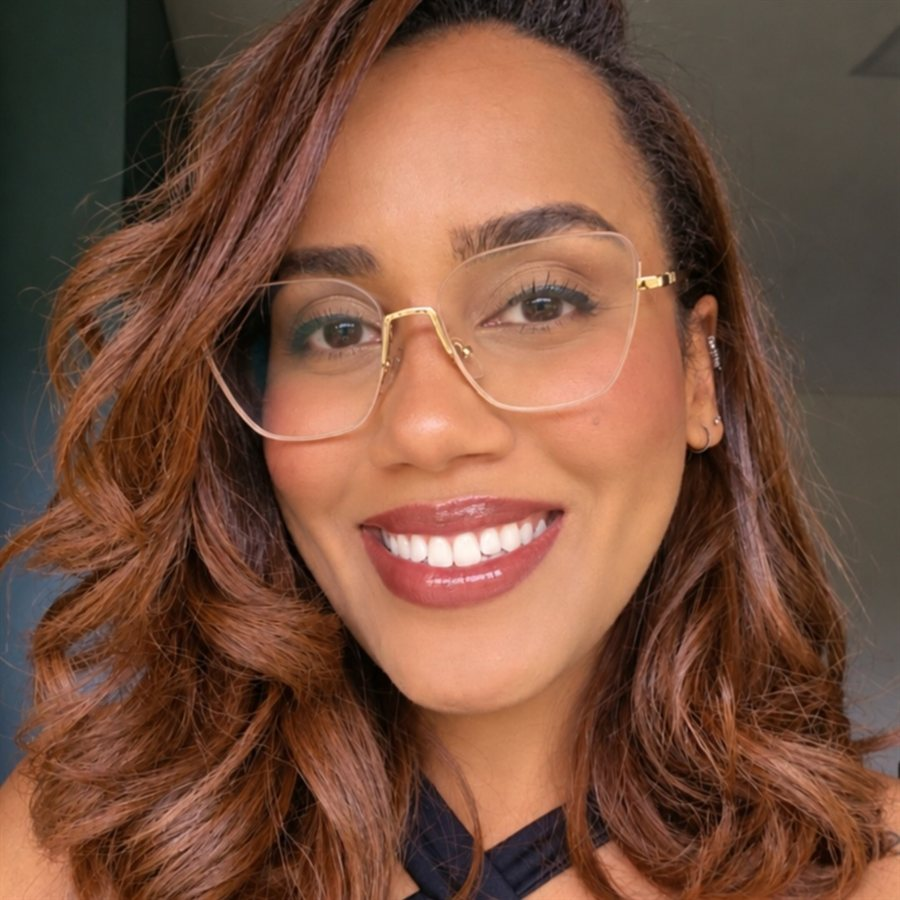
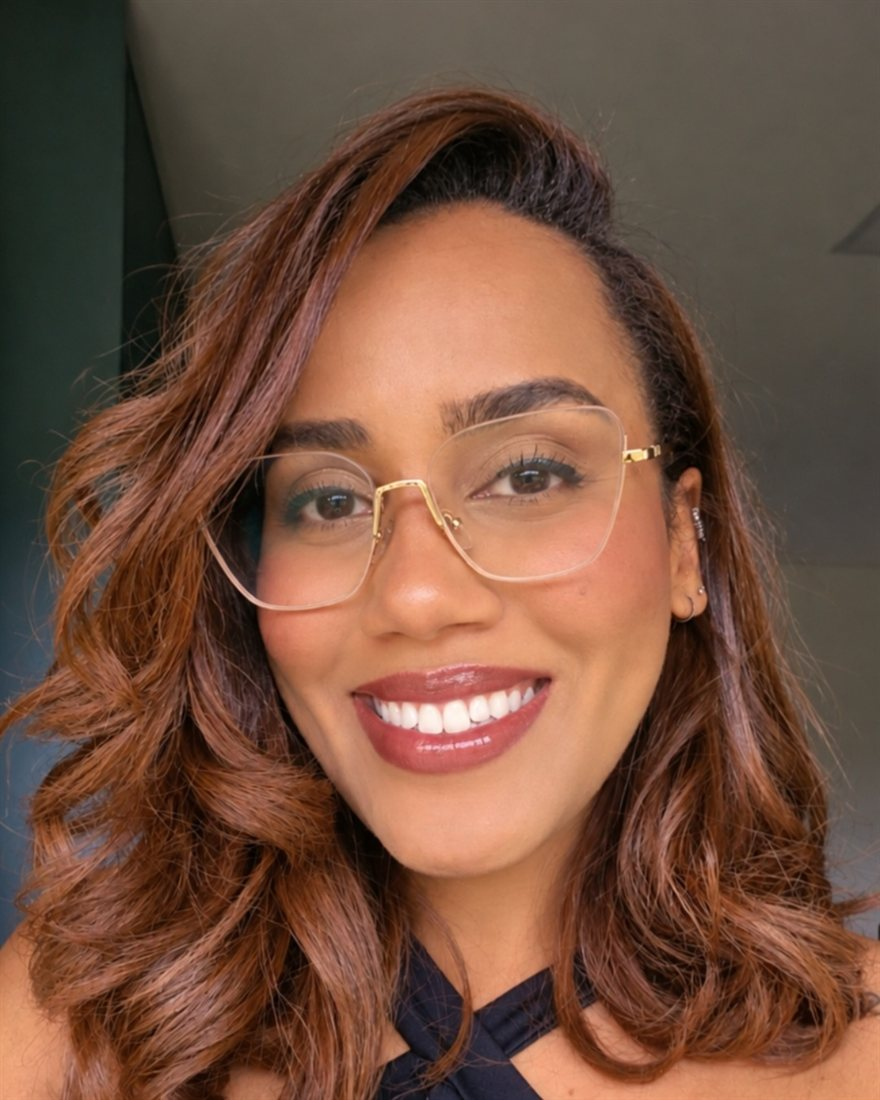
Hero: foto em retrato com fundo decorativo e correcao das margens laterais
A foto volta a mostrar o cabelo inteiro, em formato retrato com topo em arco
sobre um fundo em gradiente. Corrige tambem o padding lateral que era zerado
pelo atalho de padding no hero, na faixa de transicao e no corpo dos cases.

diff --git a/index.html b/index.html
@@ -10,7 +10,7 @@
 <link href="https://fonts.googleapis.com/css2?family=Manrope:wght@400;500;600;700;800&family=JetBrains+Mono:wght@400;700&display=swap" rel="stylesheet">
 <link rel="stylesheet" href="assets/css/style.css">
 <style>
-  .hero { padding: 72px 0 64px; display: grid; grid-template-columns: 1.4fr 0.6fr; gap: 56px; align-items: center; }
+  .hero { padding-block: 72px 64px; display: grid; grid-template-columns: 1.4fr 0.6fr; gap: 56px; align-items: center; }
   .hero h1 { font-size: clamp(40px, 6vw, 64px); letter-spacing: -0.03em; line-height: 1.05; }
   .hero .sub { margin-top: 18px; font-size: clamp(18px, 2.2vw, 22px); font-weight: 600; color: var(--ink); max-width: 30ch; line-height: 1.35; }
   .hero .desc { margin-top: 18px; font-size: 17px; color: var(--ink-2); max-width: 56ch; }
@@ -19,10 +19,26 @@
   .hero-meta span { display: inline-flex; align-items: center; gap: 7px; }
   .hero-meta svg { width: 15px; height: 15px; }
 
-  .portrait { justify-self: end; width: 100%; max-width: 340px; }
-  .portrait img { width: 100%; height: auto; aspect-ratio: 1 / 1; object-fit: cover; border-radius: var(--radius); box-shadow: var(--shadow); }
+  .portrait { position: relative; justify-self: end; width: 100%; max-width: 330px; }
+  .portrait::before {
+    content: ""; position: absolute; z-index: 0;
+    left: -15%; right: -11%; top: -7%; bottom: -5%;
+    background: linear-gradient(145deg, rgba(210, 104, 61, 0.26), rgba(45, 91, 227, 0.22));
+    border-radius: 56% 44% 50% 50% / 44% 50% 50% 56%;
+  }
+  .portrait::after {
+    content: ""; position: absolute; z-index: 0;
+    left: 10%; right: -11%; top: 15%; bottom: -12%;
+    border: 1.5px solid rgba(45, 91, 227, 0.20);
+    border-radius: 50%;
+  }
+  .portrait img {
+    position: relative; z-index: 1;
+    width: 100%; height: auto; aspect-ratio: 4 / 5; object-fit: cover;
+    border-radius: 165px 165px 22px 22px; box-shadow: 0 18px 44px rgba(17, 24, 39, 0.14);
+  }
 
-  .transition { padding: 28px 0 8px; }
+  .transition { padding-block: 28px 8px; }
   .transition-in { display: grid; grid-template-columns: auto 1fr auto; align-items: center; gap: 18px; font-size: 13.5px; font-weight: 700; }
   .transition-in .from { color: var(--warm-ink); }
   .transition-in .to { color: var(--blue-ink); text-align: right; }
@@ -63,9 +79,11 @@
   @media (max-width: 900px) {
     .hero { grid-template-columns: 1fr; gap: 36px; }
     .portrait { justify-self: start; max-width: 300px; }
+    .portrait img { border-radius: 150px 150px 22px 22px; }
+    .portrait::after { right: -6%; left: 8%; }
   }
   @media (max-width: 720px) {
-    .hero { padding: 48px 0 40px; }
+    .hero { padding-block: 48px 40px; }
     .tl { grid-template-columns: 1fr; gap: 6px; }
     .tools-row { grid-template-columns: 1fr; gap: 8px; }
     .tools-label { padding-top: 0; }
@@ -121,7 +139,7 @@
       </div>
     </div>
     <div class="portrait">
-      <img src="assets/img/bianca.jpg?v=2" alt="Foto de Bianca Carvalho" width="900" height="900">
+      <img src="assets/img/bianca.jpg?v=3" alt="Foto de Bianca Carvalho" width="880" height="1100">
     </div>
   </section>
 

diff --git a/assets/css/style.css b/assets/css/style.css
@@ -51,6 +51,7 @@ body {
   font-size: 16px;
   line-height: 1.6;
   -webkit-font-smoothing: antialiased;
+  overflow-x: clip;
 }
 img { max-width: 100%; display: block; }
 a { color: var(--blue-ink); text-decoration: none; }
@@ -201,7 +202,7 @@ code, .mono { font-family: var(--mono); font-size: 0.86em; }
 .case-head .tags { margin-top: 22px; }
 .case-links { display: flex; flex-wrap: wrap; gap: 12px; margin-top: 26px; }
 
-.case-body { padding: 24px 0 80px; }
+.case-body { padding-block: 24px 80px; }
 .case-section { display: grid; grid-template-columns: 200px minmax(0, 1fr); gap: 32px; padding: 44px 0; border-bottom: 1px solid var(--line); }
 .case-section:last-of-type { border-bottom: none; }
 .case-num { position: sticky; top: 84px; align-self: start; }
